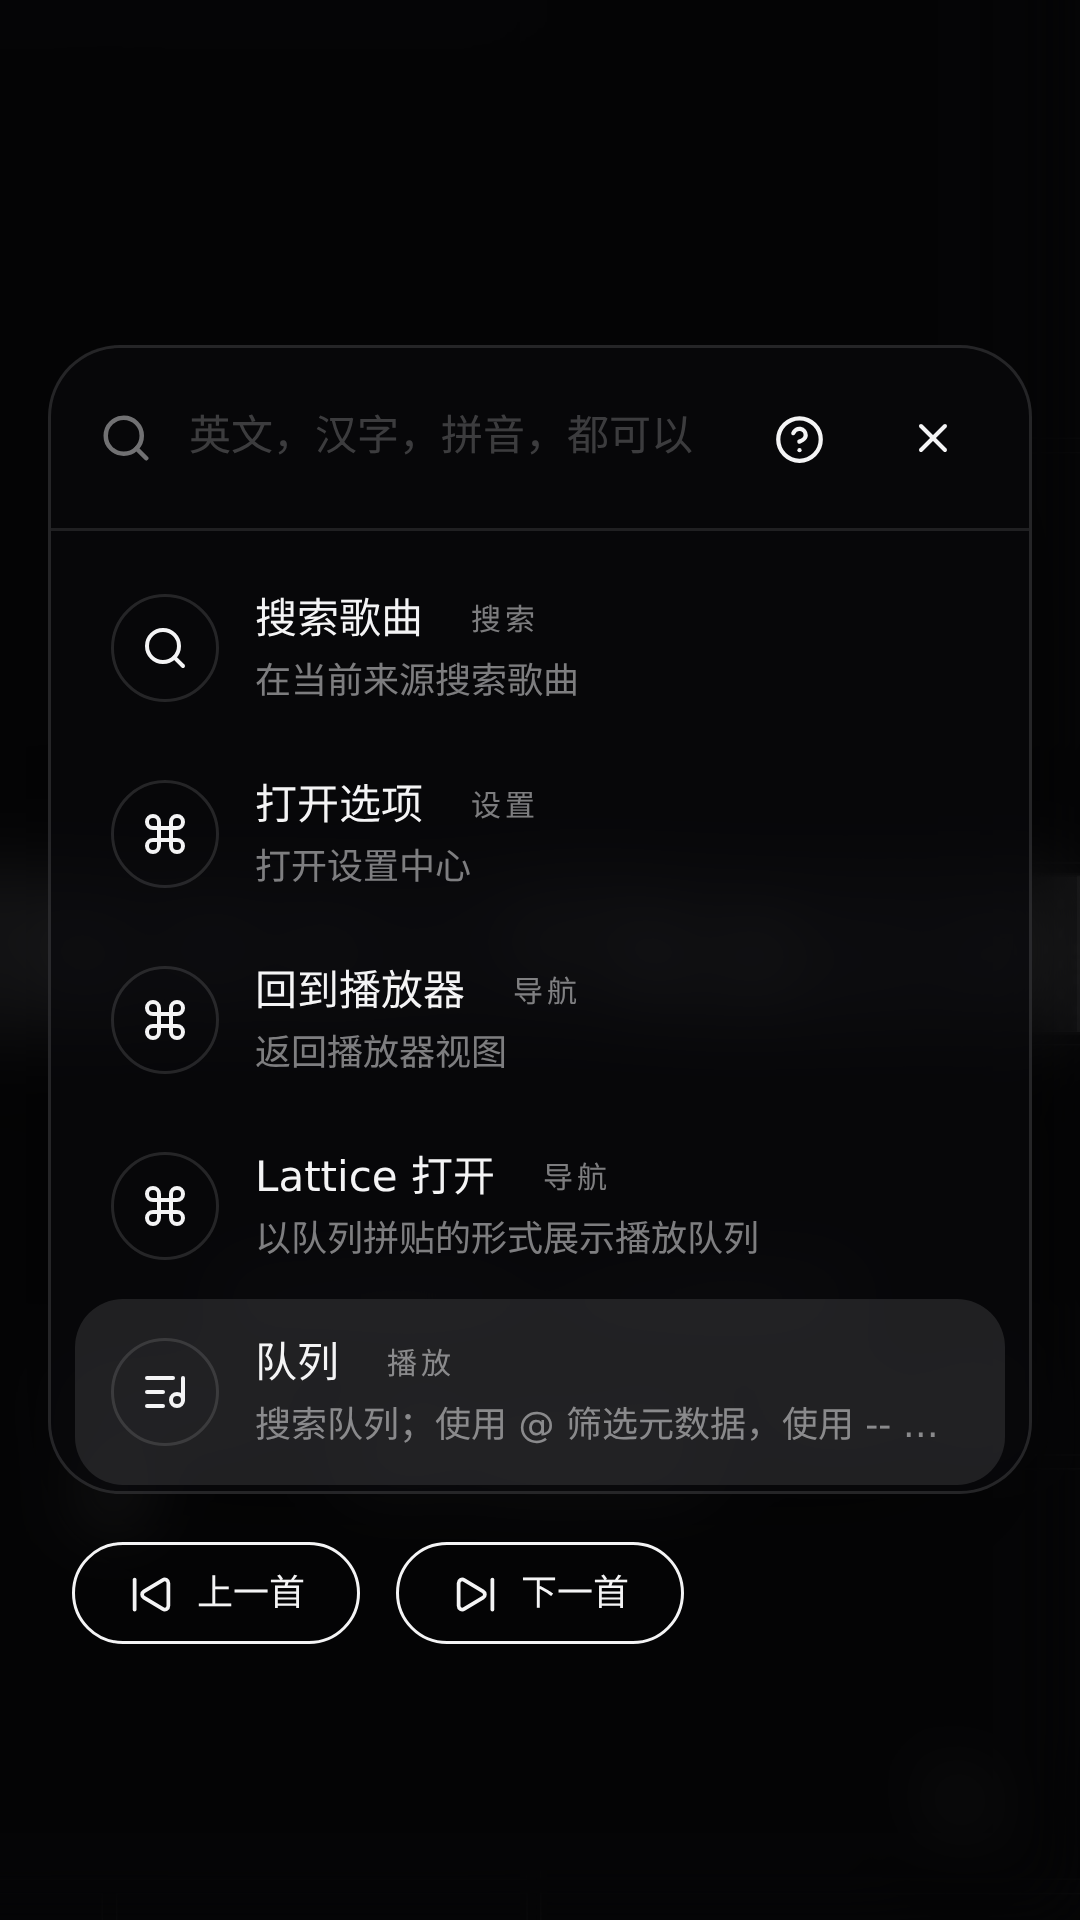
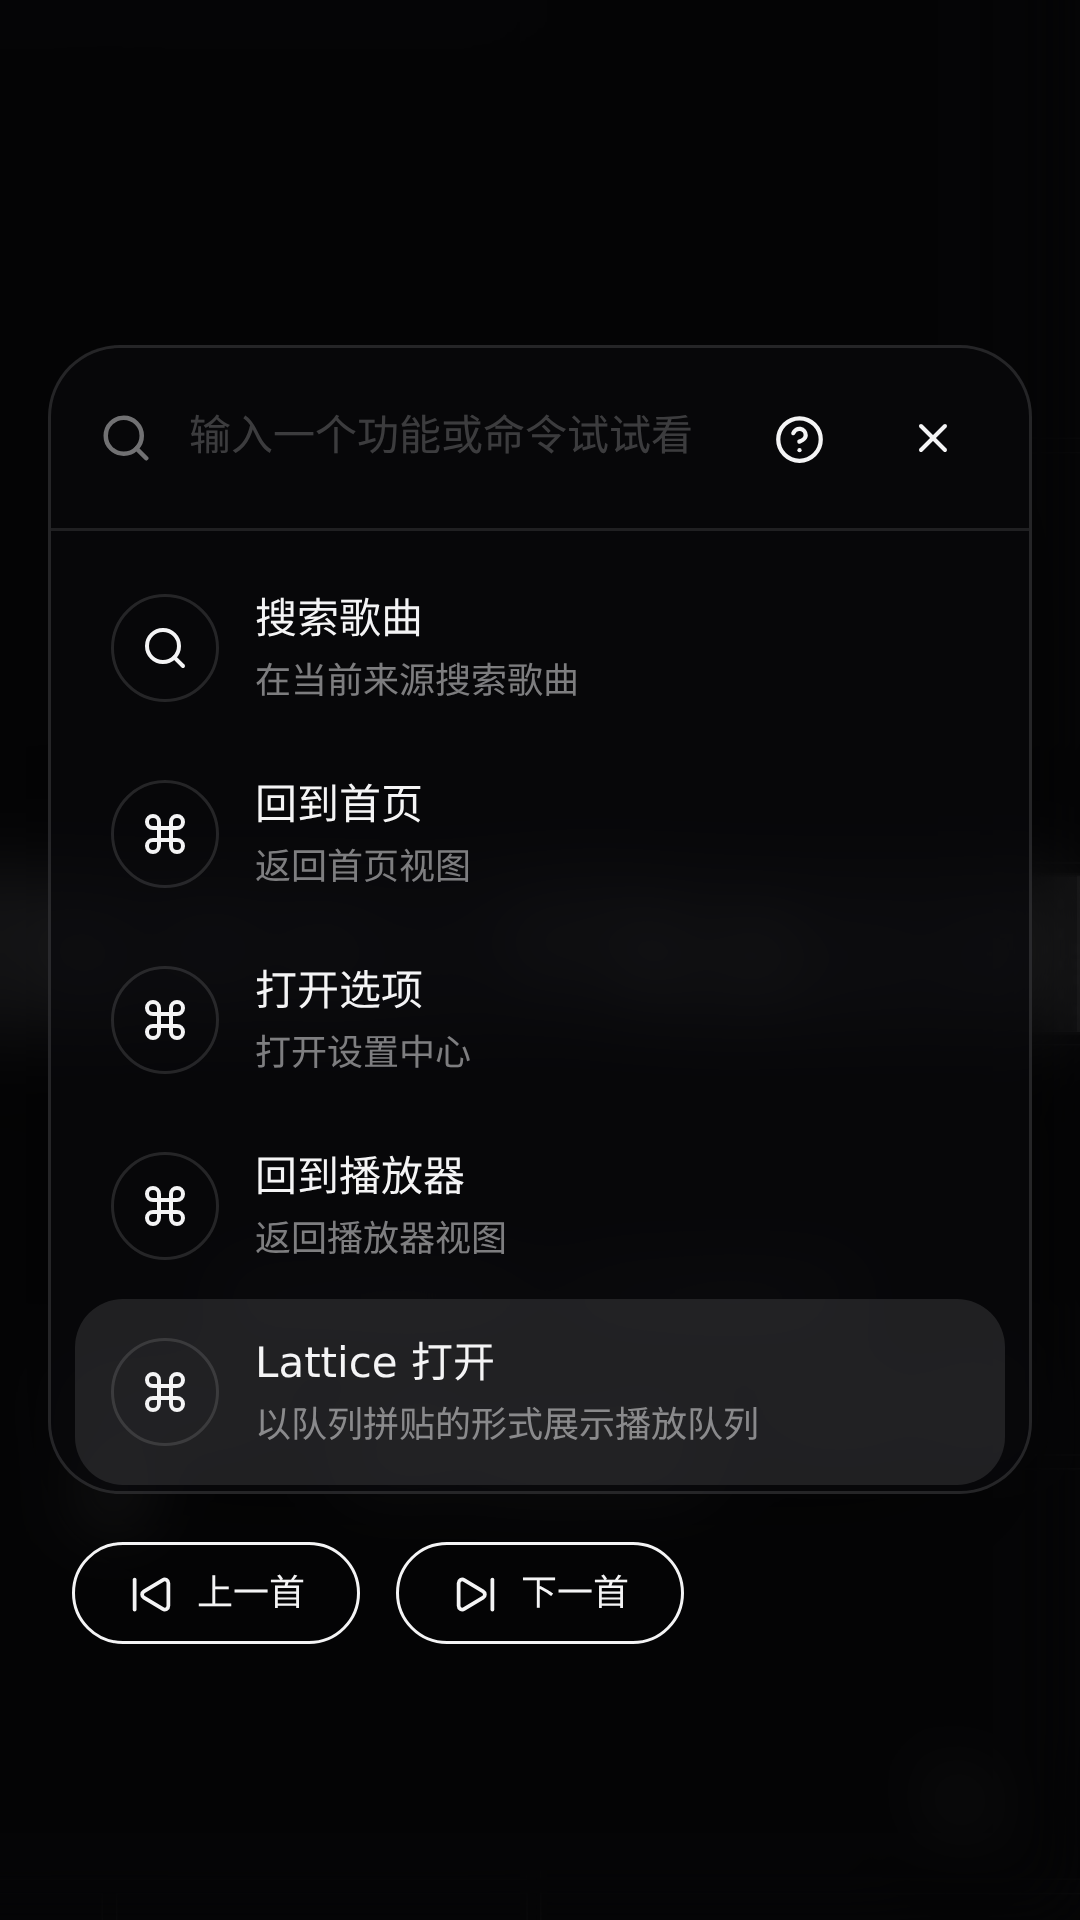
feat(android.301): 命令面板删除行标题右侧分类徽章
用户指定 13 号截图（命令面板）行标题右侧的分类小标签（搜索/设置/导航/
播放等圆角 chip）全部删除：match 行与「全部命令」行两处，连带清掉
groupLabelKey 常量与 AllCommandsList→Row props 链路；i18n group* 键保留。
render-mobile-ui.mjs 行匹配串去掉徽章拼文并修正旧错串（回到首页）；
补交 .300 漏入库的 16-offline-search.png；lockfile 根 version 补齐跳 .301。
验证：tsc EXIT=0；palette 定向 28 文件 313 例全绿；vite build EXIT=0；
01-14 屏重渲（13 屏实证徽章消失、10 屏恢复 landing 命中）。

diff --git a/src/components/command-palette/CommandPalette.tsx b/src/components/command-palette/CommandPalette.tsx
@@ -66,16 +66,6 @@ const resolveSurfaceComponent = (surface: CommandPaletteSurface) => {
     return component;
 };
 
-const groupLabelKey: Record<string, string> = {
-    search: 'commandPalette.groupSearch',
-    settings: 'commandPalette.groupSettings',
-    navigation: 'commandPalette.groupNavigation',
-    panel: 'commandPalette.groupPanel',
-    playback: 'commandPalette.groupPlayback',
-    visualizer: 'commandPalette.groupVisualizer',
-    grid: 'commandPalette.groupGrid',
-};
-
 const IDLE_PLACEHOLDER_COUNT = 5;
 const IDLE_PLACEHOLDER_INTERVAL_MS = 2800;
 
@@ -523,7 +513,6 @@ const CommandPalette: React.FC<CommandPaletteProps> = ({
                             {isShowingAllCommands ? (
                                 <CommandPaletteAllCommandsList
                                     commands={availableCommands}
-                                    groupLabelKey={groupLabelKey}
                                     isDaylight={isDaylight}
                                     itemIdleBg={itemIdleBg}
                                     theme={theme}
@@ -551,7 +540,6 @@ const CommandPalette: React.FC<CommandPaletteProps> = ({
                             ) : (
                                 matches.map((match, index) => {
                                     const isActive = index === activeIndex;
-                                    const groupLabel = t(groupLabelKey[match.command.group] || 'commandPalette.groupOther') || match.command.group;
                                     const title = getCommandTitle(match.command, t);
                                     const displayDescription = match.previewText || getCommandDescription(match.command, t);
                                     const Icon = match.command.icon ?? Command;
@@ -587,9 +575,6 @@ const CommandPalette: React.FC<CommandPaletteProps> = ({
                                             <div className="min-w-0 flex-1">
                                                 <div className="flex items-center gap-2">
                                                     <span className="truncate text-sm font-medium">{title}</span>
-                                                    <span className="shrink-0 rounded-full px-2 py-0.5 text-[10px] uppercase tracking-[0.12em] opacity-50">
-                                                        {groupLabel}
-                                                    </span>
                                                 </div>
                                                 <div className="mt-0.5 truncate text-xs opacity-50">
                                                     {displayDescription}

diff --git a/src/components/command-palette/CommandPaletteAllCommandsRow.tsx b/src/components/command-palette/CommandPaletteAllCommandsRow.tsx
@@ -17,7 +17,6 @@ export const ALL_COMMANDS_ROW_HEIGHT = 60;
 
 export type AllCommandsRowProps = {
     commands: CommandPaletteCommand[];
-    groupLabelKey: Record<string, string>;
     isDaylight: boolean;
     itemIdleBg: string;
     theme: Theme;
@@ -29,7 +28,6 @@ const CommandPaletteAllCommandsRow = ({
     index,
     style,
     commands,
-    groupLabelKey,
     isDaylight,
     itemIdleBg,
     theme,
@@ -41,7 +39,6 @@ const CommandPaletteAllCommandsRow = ({
         return null;
     }
 
-    const groupLabel = t(groupLabelKey[command.group] || 'commandPalette.groupOther') || command.group;
     const Icon = command.icon ?? Command;
 
     return (
@@ -64,7 +61,6 @@ const CommandPaletteAllCommandsRow = ({
                 <div className="min-w-0 flex-1">
                     <div className="flex items-center gap-2">
                         <span className="truncate text-sm font-medium">{getCommandTitle(command, t)}</span>
-                        <span className="shrink-0 rounded-full px-2 py-0.5 text-[10px] uppercase tracking-[0.12em] opacity-50">{groupLabel}</span>
                     </div>
                     <div className="mt-0.5 truncate text-xs opacity-50">{getCommandDescription(command, t)}</div>
                 </div>

diff --git a/src/components/command-palette/CommandPaletteAllCommandsList.tsx b/src/components/command-palette/CommandPaletteAllCommandsList.tsx
@@ -16,7 +16,6 @@ import CommandPaletteAllCommandsRow, { ALL_COMMANDS_ROW_HEIGHT } from './Command
 
 type CommandPaletteAllCommandsListProps = {
     commands: CommandPaletteCommand[];
-    groupLabelKey: Record<string, string>;
     isDaylight: boolean;
     itemIdleBg: string;
     theme: Theme;
@@ -27,7 +26,6 @@ type CommandPaletteAllCommandsListProps = {
 
 const CommandPaletteAllCommandsList: React.FC<CommandPaletteAllCommandsListProps> = ({
     commands,
-    groupLabelKey,
     isDaylight,
     itemIdleBg,
     theme,
@@ -38,13 +36,12 @@ const CommandPaletteAllCommandsList: React.FC<CommandPaletteAllCommandsListProps
     // 一个 memo，避免 125 行各自重建闭包。
     const rowProps = useMemo(() => ({
         commands,
-        groupLabelKey,
         isDaylight,
         itemIdleBg,
         theme,
         t,
         onPick,
-    }), [commands, groupLabelKey, isDaylight, itemIdleBg, theme, t, onPick]);
+    }), [commands, isDaylight, itemIdleBg, theme, t, onPick]);
 
     return (
         <div className="flex h-full min-h-0 flex-col">

diff --git a/MERGE-STATE.md b/MERGE-STATE.md
@@ -12,8 +12,13 @@
 - 凭证：`/home/z/my-project/.gh-credentials` 与 `~/.git-credentials`（credential.helper=store）——**2026-11-01 用户重发 PAT（ghp_kpr8...，用户拍板复用）并已持久化，沙箱重置后从 `git clone https://@github.com/...` 自动走 credential.helper 恢复**
 - ⚠ PAT 绝不能写进仓库任何被跟踪的文件
 
-## 当前进度（2026-11-03 10:00 +08 更新）
+## 当前进度（2026-11-04 +08 更新）
 
+- **.301 命令面板分类徽章删除批次（2026-11-04，用户指令「是13号图片右侧的徽章」= 命令面板行标题右侧分类小标签）**
+  - **改动**：删除 match 行（CommandPalette.tsx）与「全部命令」行（CommandPaletteAllCommandsRow.tsx）标题右侧的 groupLabel 圆角小标签（搜索/设置/导航/播放等），连带清掉 `groupLabelKey` 常量、match 行 groupLabel 计算与 AllCommandsList→Row 的 props 链路；i18n `commandPalette.group*` 键保留未删（防上游回用，零风险）。队列视图里时长/元数据小 chip 不在本次范围，保留
+  - **连带**：render-mobile-ui.mjs 行匹配串去掉徽章拼文（'Lattice 打开导航'→'Lattice 打开'、'打开选项设置'→'打开选项'、'回到主页'→'回到首页'——最后一个本就是旧错串，靠徽章删后暴露）；补交 .300 漏入库的 `docs/ui-preview/16-offline-search.png`；lockfile 根 version 补齐后随本批跳 .301（.300 重蹈 .294 漏改 lock 覆辙）
+  - **验证**：tsc EXIT=0；command-palette 定向 28 文件 313 例全绿；vite build EXIT=0；13 屏重渲实证徽章消失（01-14 全套重出，10-settings-landing 恢复 landing 命中）
+  - **⚠ 沙箱 npm 新坑（EALLOWREMOTE，排查久）**：`npm install` 全量失败 `Fetching non-root packages of type "remote" have been disabled`——根因是沙箱环境变量 `NPM_CONFIG_REGISTRY=https://registry.npmmirror.com` 覆盖项目 .npmrc 的 npmjs 源，npm 11.19 新 allowRemote 策略下 lockfile 里的 registry.npmjs.org tarball 与生效 registry 主机不匹配 → reify extract 阶段 `#isRegistryResolvedTarball` 判否 → 一切 registry 包被当 remote 拒装。**解法：`NPM_CONFIG_REGISTRY=https://registry.npmjs.org/ npm install --ignore-scripts --no-audit --no-fund`（对齐 lockfile 主机，策略本身不动）**；排查法：进程内 require 系统 npm + 包一层 pacote `FetcherBase.get` 打 spec/`_isRoot`（scripts/npm-debug-install.cjs 存档）；勿再走 vendor/file: 置换弯路（不影响报错根源）
 - **.300 搜索离线判定批次（2026-11-03 上午，用户指令「未连接网络没有判定会直接显示歌曲搜索失败，优化，继续优化GUI并渲染」）**
   - **根因**：断网时在线源搜索仍发起注定失败的请求，WebView 抛含混的 "Failed to fetch" 被笼统显示成「搜索失败，请重试」，无网络状态判定。链路上还有一坑：store 置错后 `onSearchCommitted` → `navigateToSearch` → `pushNavigationState` → `restoreHistoryState` → `restoreSearch` 会无脑清 error，把「未连接网络」洗成「未找到相关结果」
   - **修复（三件）**：①新模块 `src/utils/networkStatus.ts`——`isNetworkOffline()`（navigator.onLine===false 才算离线，无 navigator/SSR 按在线处理防误拦）+ `subscribeNetworkStatus`（online/offline 事件）+ `useNetworkOffline()`（useSyncExternalStore）；②store 离线预检——`submitSearch` 对非 local 源断网直接置 `searchError=SEARCH_OFFLINE_ERROR`（导出哨兵，复用 searchError 管线不加字段）短路返回、`loadMoreSearchResults` 同理；③`restoreSearch` 同词同源**且仍离线**时保留哨兵（回网自动回落缓存/空结果，后退导航旧错误照旧清）；显示层 SearchWorkspace 离线态换 `WifiOff` 图标 + `search.offline` 文案（空态+底部条两处）。locale 双语加 `search.offline`（未连接网络，请检查网络后重试。/ No network connection...）+ sync-vi（vi 英文占位）
@@ -256,7 +261,7 @@ node /home/z/my-project/scripts/sync-vi-to-en.cjs
 
 1. cherry-pick / 改动 → 冲突按「fork 的 nativeBridge/android 增量优先，上游语义不丢」解
 2. `node /home/z/my-project/scripts/sync-vi-to-en.cjs`（动了 en.ts / zh-CN.ts 时）
-3. `npm install --registry=https://registry.npmjs.org --ignore-scripts --no-audit --no-fund`（动了依赖时）
+3. `NPM_CONFIG_REGISTRY=https://registry.npmjs.org/ npm install --ignore-scripts --no-audit --no-fund`（动了依赖时；沙箱默认 npmmirror 环境变量会盖项目 .npmrc 致 EALLOWREMOTE，见 .301 批次）
 4. `npx tsc --noEmit` 0 错 + 定向 vitest；大批次全量回归用 `--shard` 分片前台跑（当前基线：~13743 过 + 1 存量败 ytmProvider:813 + 3 skip）
 5. 更新本文件（+scripts/ 若有新增）→ push `android-0.7.22`（meta 已退役不再推）
 6. 推 tag 前先查上次 workflow：`curl -H "Authorization: Bearer $PAT" .../actions/runs?per_page=2`，确认 success 再 `git tag v0.7.22-android.NNN && git push origin <tag>`；发布提交必须同改 package.json **与 package-lock.json 两处 version**（.294 曾漏改 lock）

diff --git a/docs/ui-preview/README.md b/docs/ui-preview/README.md
@@ -2,7 +2,7 @@
 
 - **设备规格**：360×640 @DPR3 = **1080×1920**（1:1 手机分辨率）、`hasTouch`/`isMobile`、locale **zh-CN**、phone-fit 显式开（`folia_android_phone_fit='true'`）
 - **首启门控五键预置**：phone-fit + `playback_entry_view_chosen` + `library_suite_prompt_seen` + `folia_last_seen_ponder_onboarding_version` + `folia_last_seen_guide_version`（防引导弹窗入镜）
-- **代码基线**：v0.7.22-android.300（.299 基座 + 搜索离线判定）
+- **代码基线**：v0.7.22-android.301（.300 基座 + 命令面板分类徽章删除）
 - **复现**：`npx vite build && npx vite preview --port 4173`，然后 `node scripts/render-mobile-ui.mjs`（主 14 屏）+ `node scripts/render-extra.mjs`（补 02/15）+ `node scripts/render-offline-search.mjs`（16 离线空态，含断言）；渲染与探针脚本入库 `scripts/`（render-mobile-ui.mjs / render-extra.mjs / probe-{dom,palette,player}.mjs / probe-spine-geometry.mjs / probe-seam-expanded.mjs / probe-tablet-seam.mjs）
 - **入库说明**：本渲染集同时入库在仓库 `docs/ui-preview/`（沙箱 download/ 目录会被周期性回退清空，仓库是持久正本；每次重渲染后整组替换、不留旧版本）
 
@@ -22,7 +22,7 @@
 | 10 | 10-settings-landing.png | 设置落地页（.299 传统移动端化：全屏 edge-to-edge、搜索 + 分组类目根列表） |
 | 11 | 11-settings-section.png | 设置·外观子页（.299 抽屉式：页头 ← 返回箭头 + 页内锚点页签） |
 | 12 | 12-search-workspace.png | 搜索激活态（zh 本地化 placeholder「在当前来源搜索歌曲」） |
-| 13 | 13-command-palette.png | 命令面板（zh 行 + zh 分类 chip，无英文等价物） |
+| 13 | 13-command-palette.png | 命令面板（.301 删除行标题右侧分类 chip：搜索/设置/导航/播放，行只留图标+标题+描述；「全部命令」行同步删除） |
 | 14 | 14-login-window.png | 登录窗 |
 | 15 | 15-search-overlay.png | 首页搜索覆盖层 |
 | 16 | 16-offline-search.png | 搜索离线空态（.300：断网提交在线搜索 → store 离线预检 → WifiOff + 「未连接网络，请检查网络后重试。」+ 重试，不再误报「搜索失败」） |
